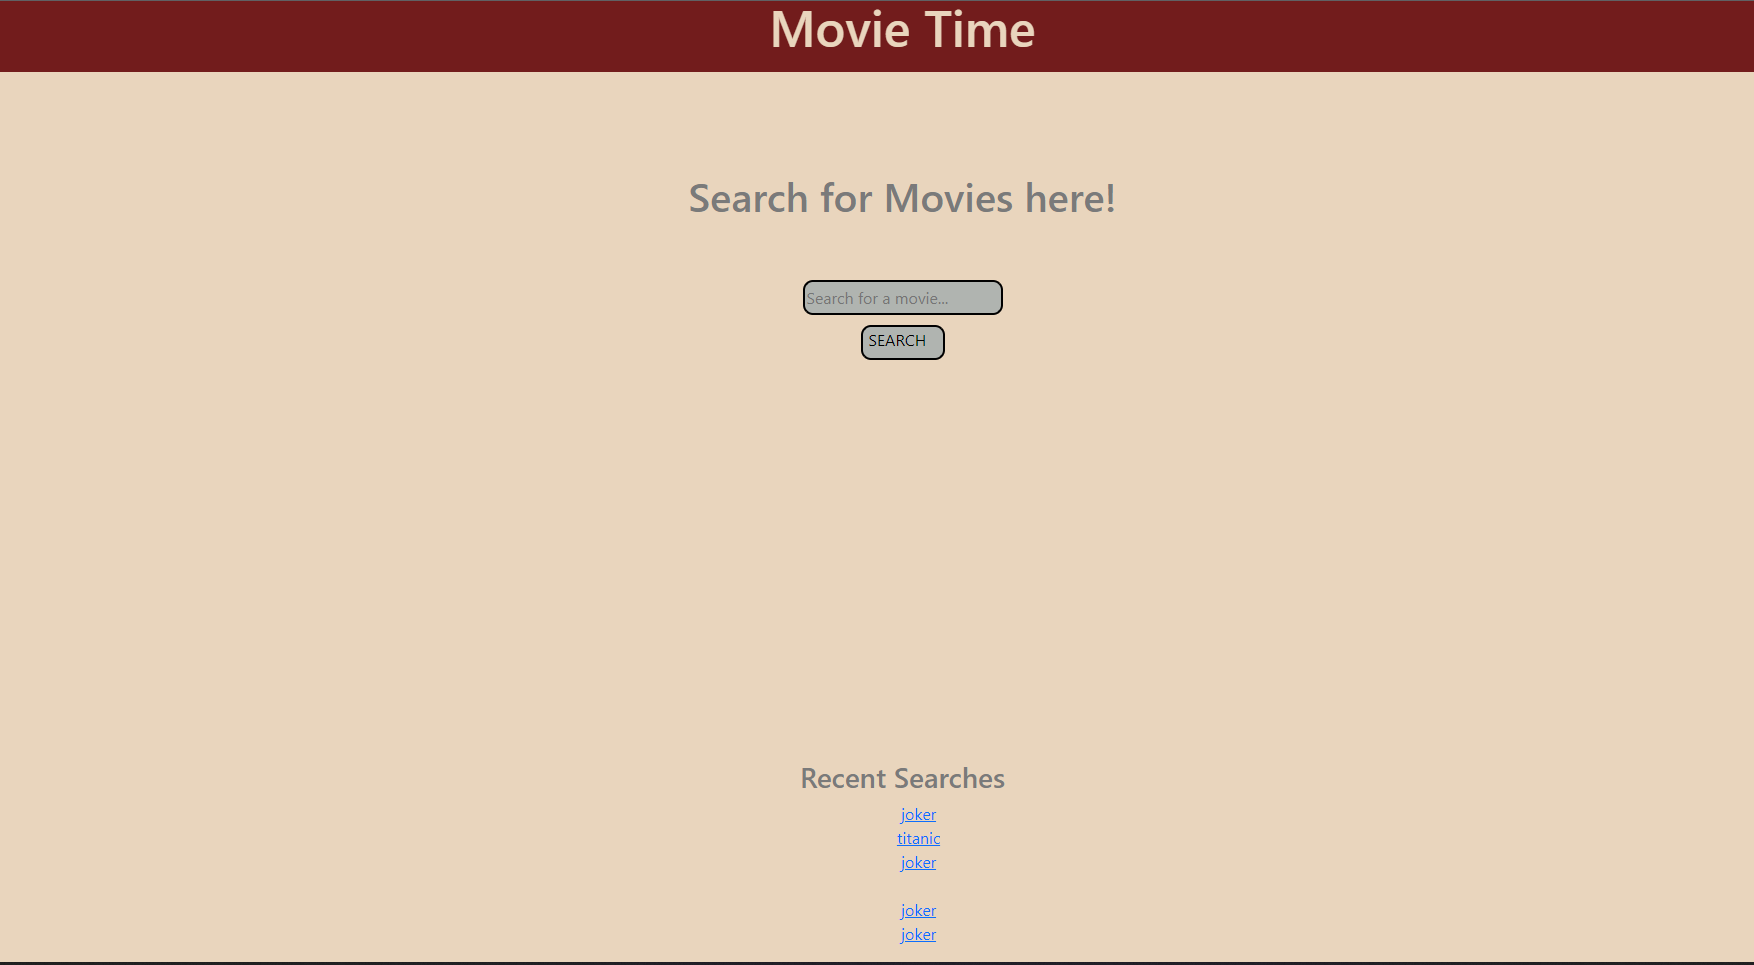
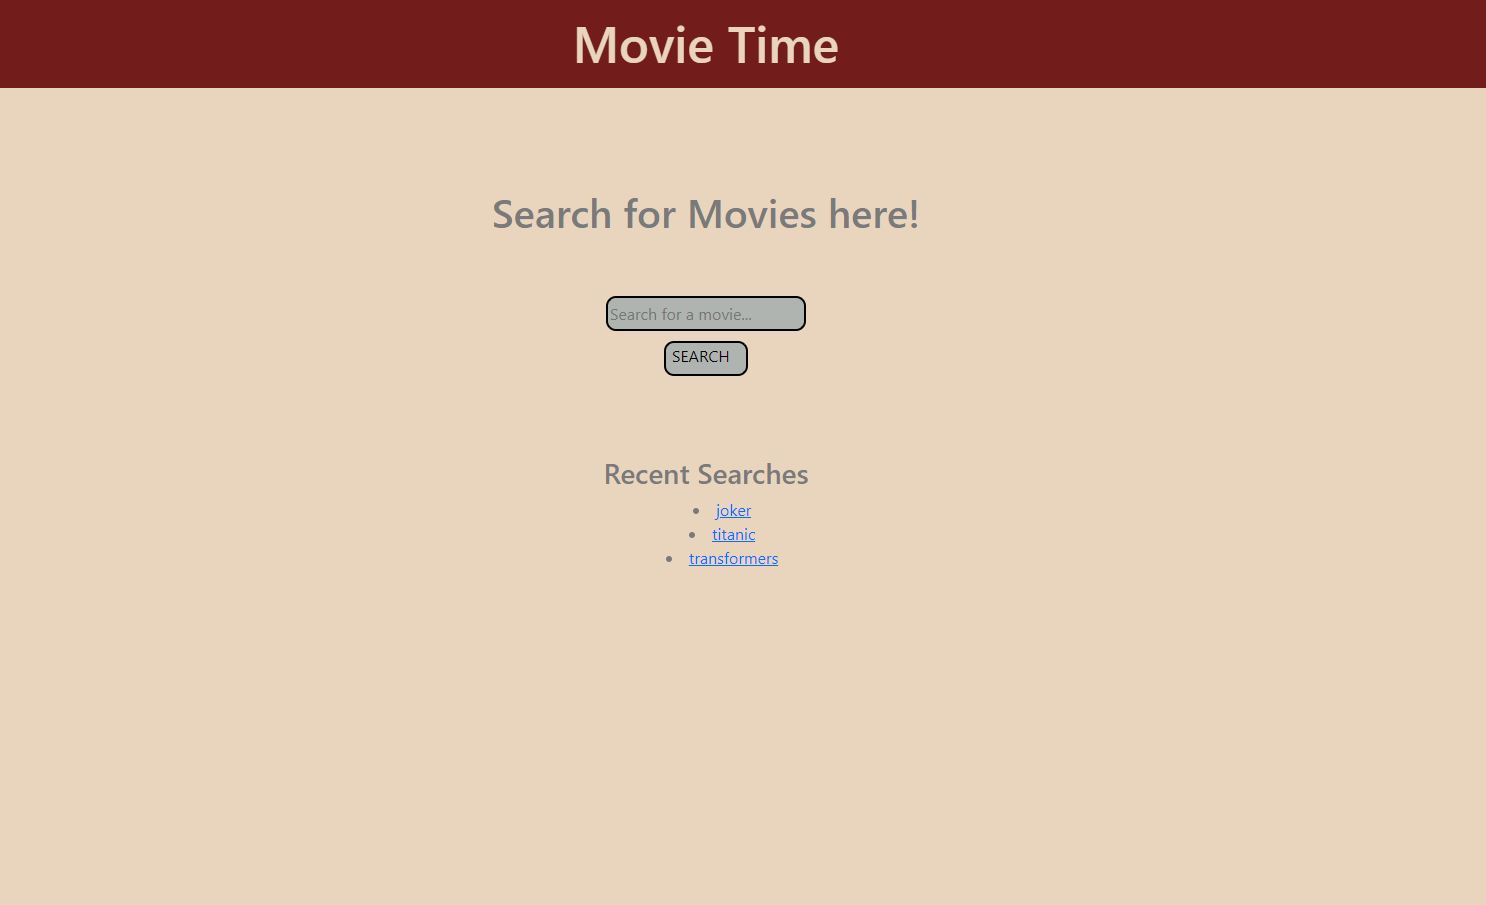
updating list style and img readme

diff --git a/assets/style.css b/assets/style.css
@@ -48,10 +48,11 @@
 #search-button {
     width: 84px;
     margin-top: 10px;
-    margin-bottom: 400px;
+    margin-bottom: 80px;
 }
 
 #search-button:hover {
     background-color: var(--secondary);
+    list-style-position: inside;
 }
 
